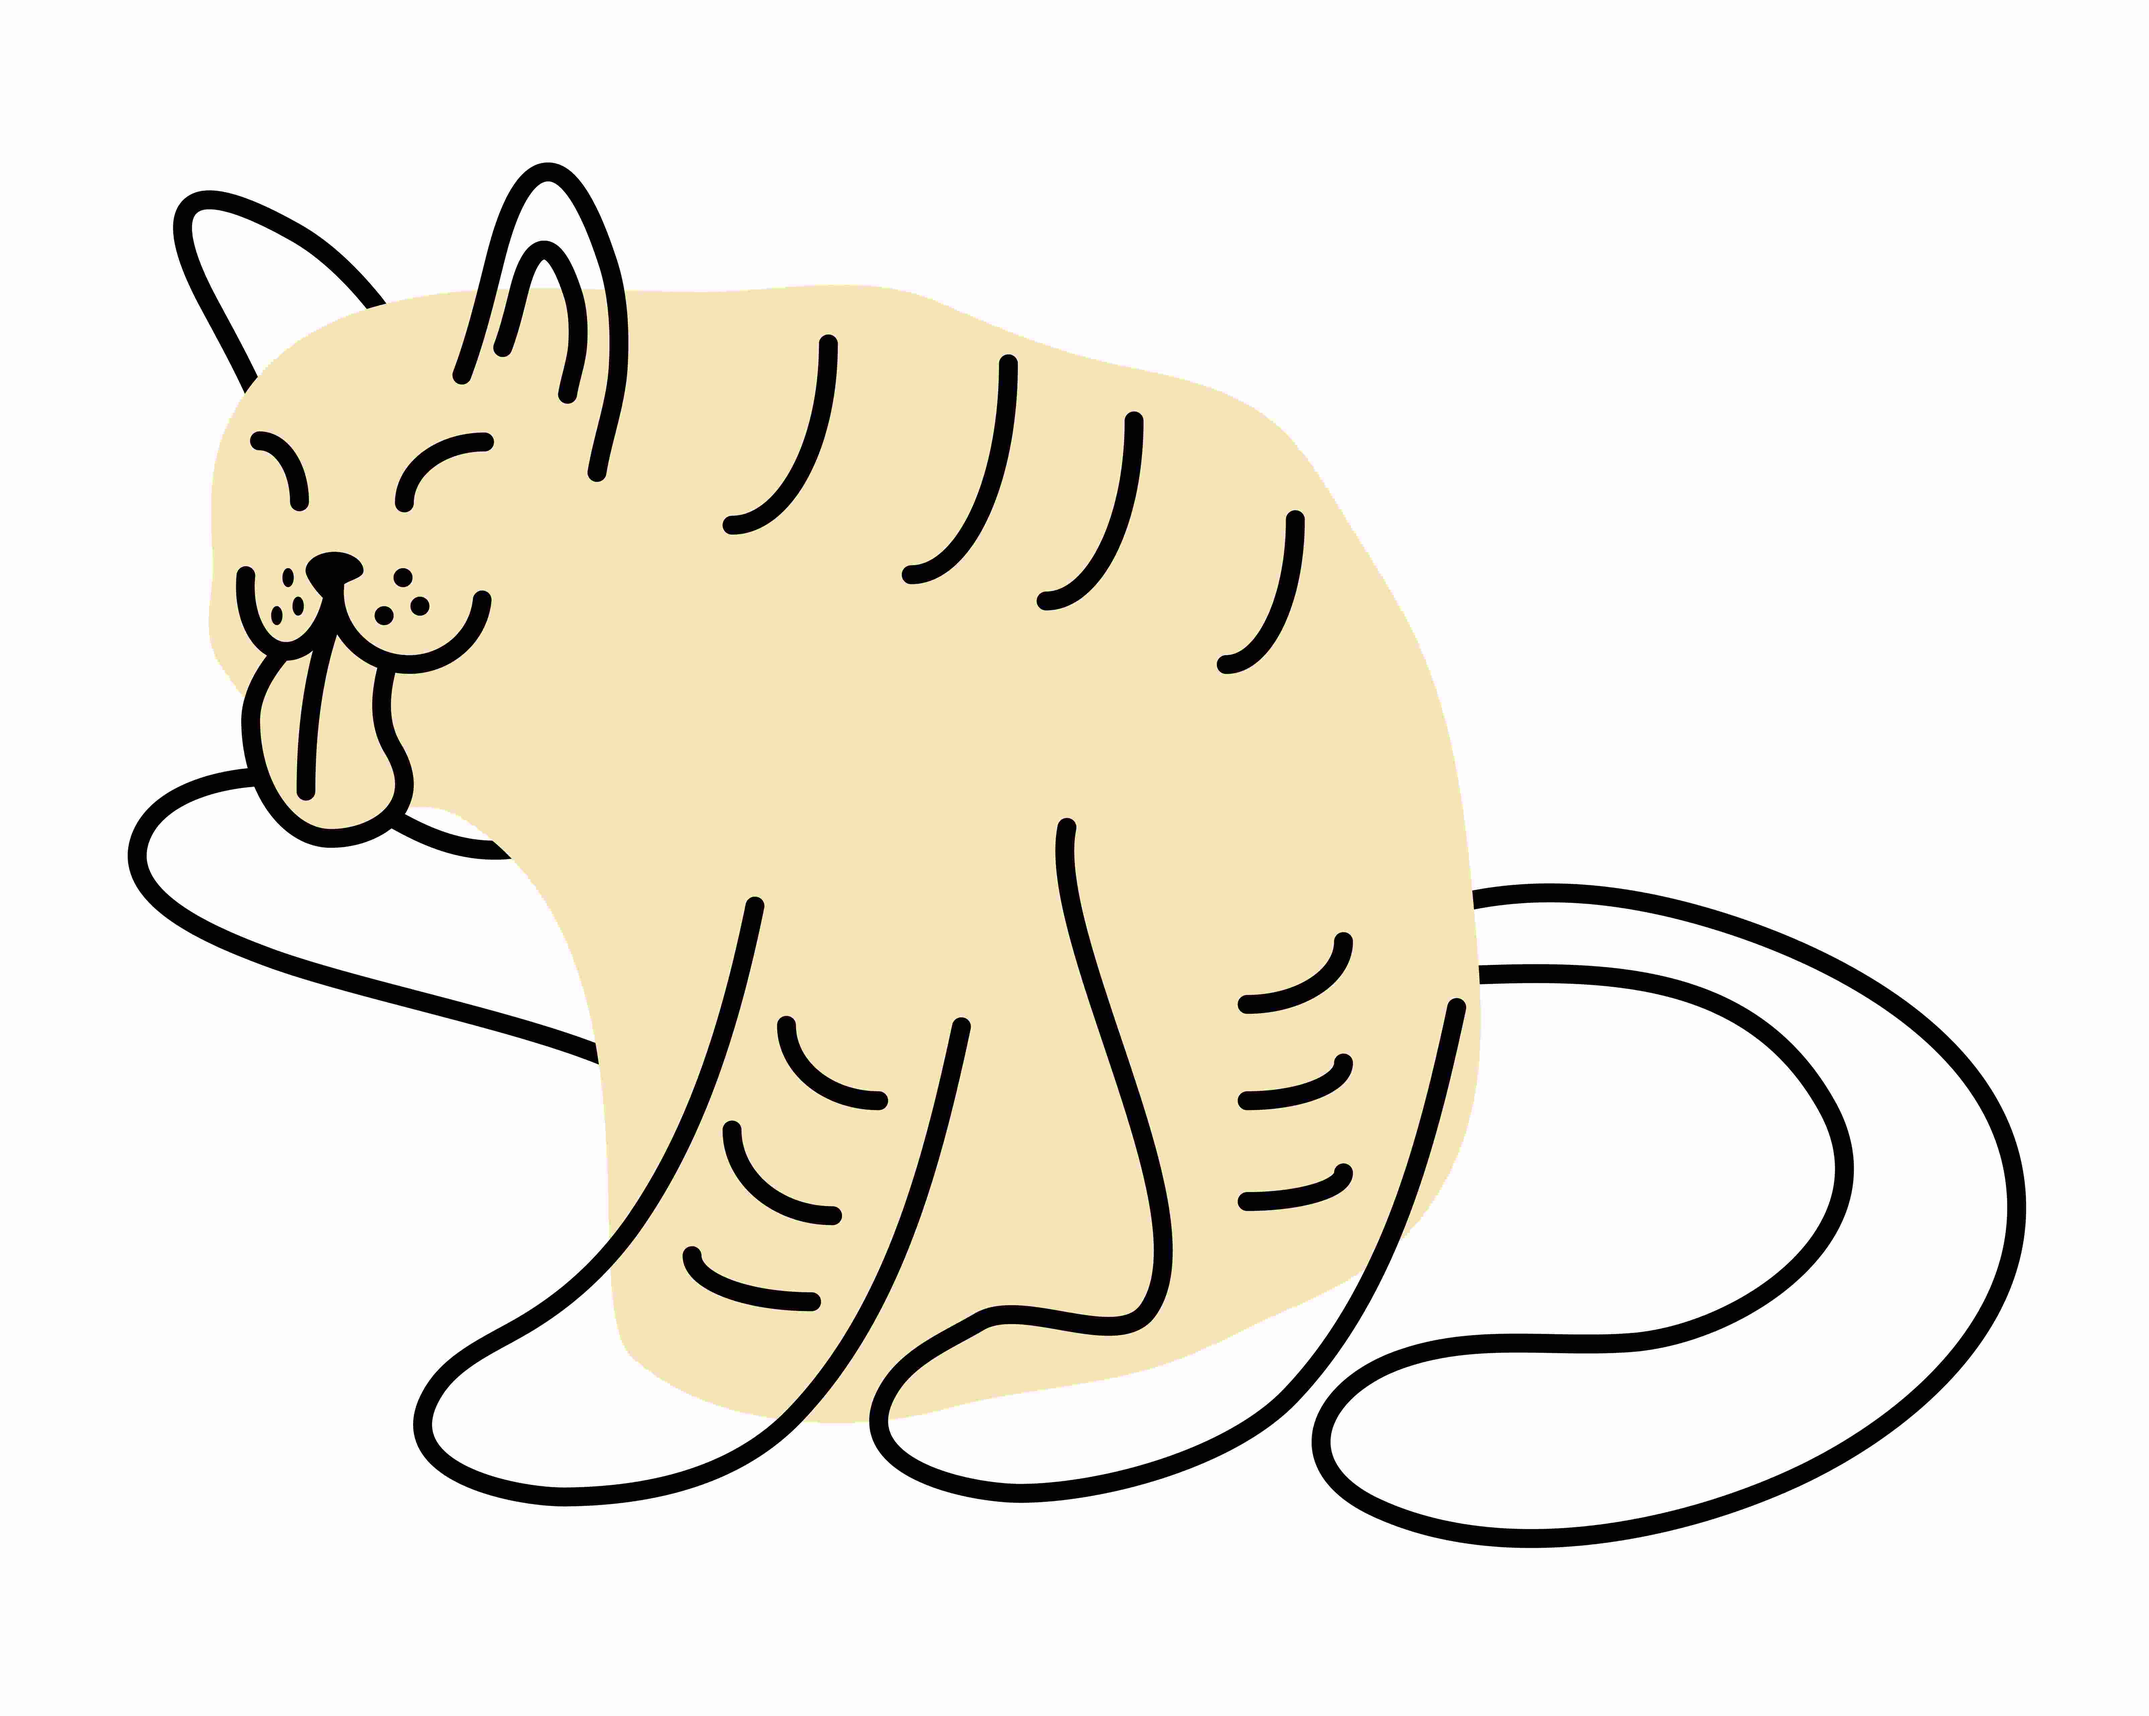
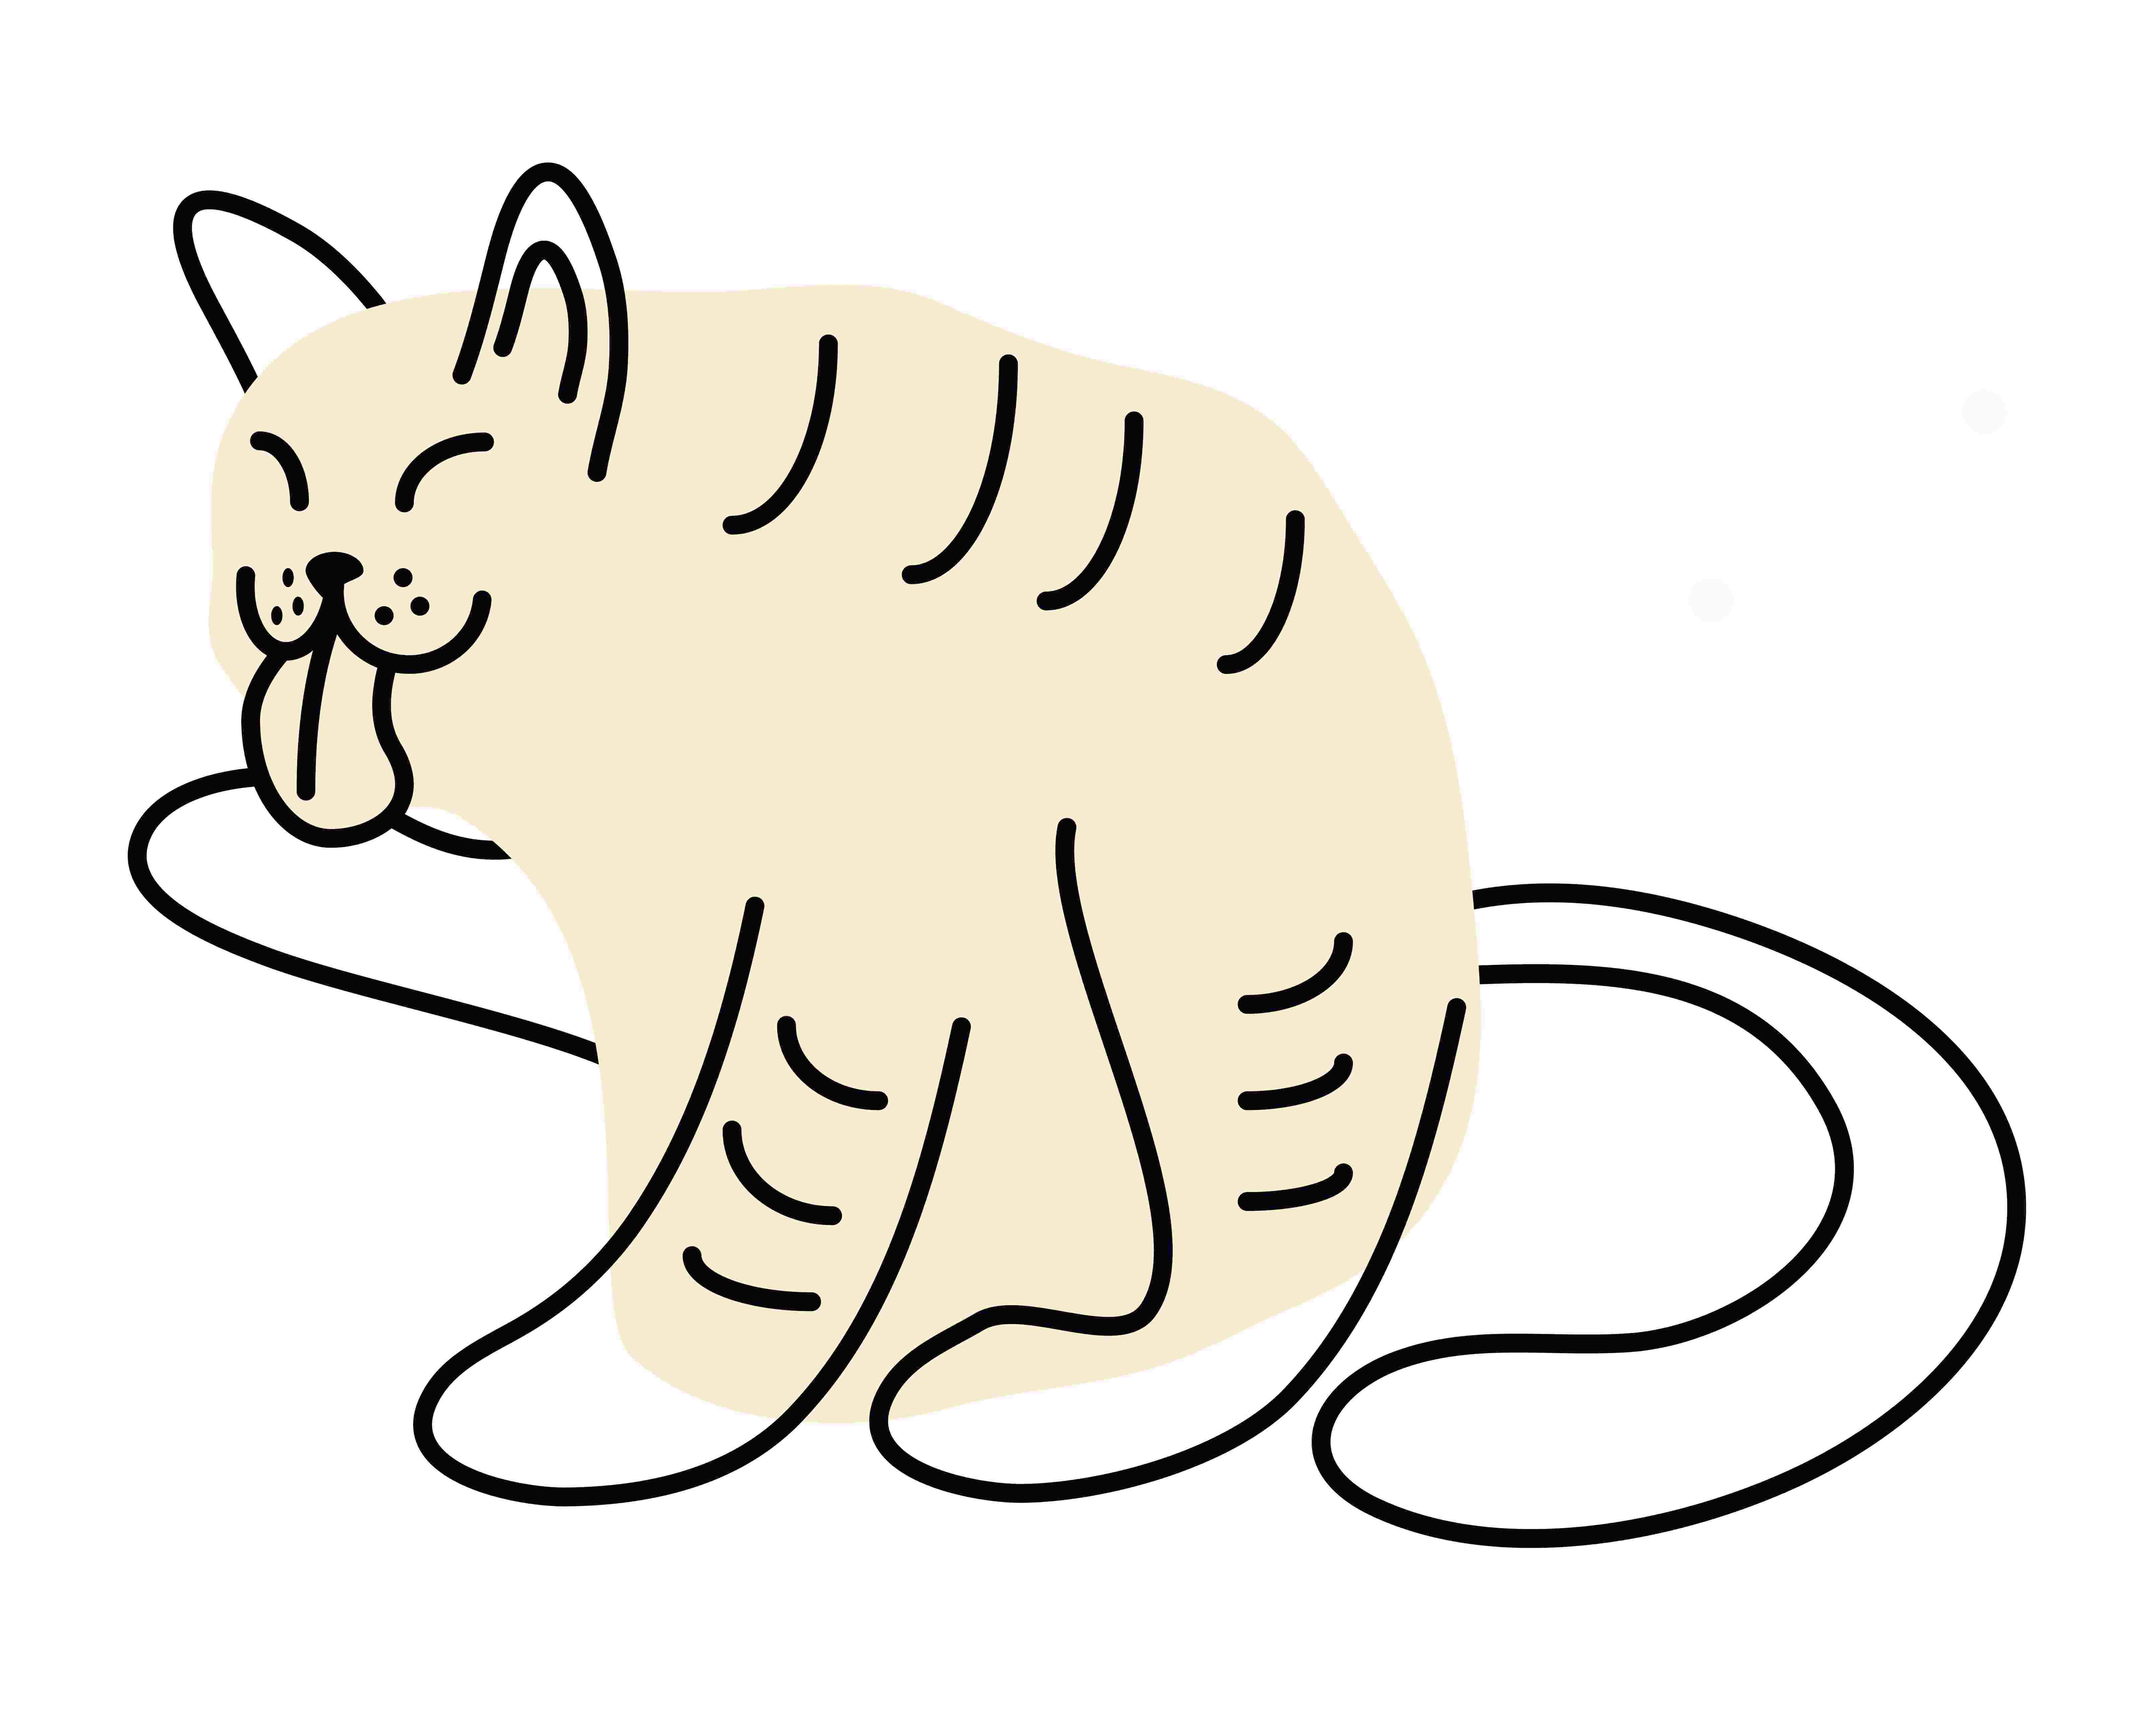
adjusted sizes and colours of cat service images

Changed region(s): [[0.0935, 0.1562, 0.686, 0.8434]]

diff --git a/assets/css/main.css b/assets/css/main.css
@@ -84,84 +84,6 @@ h2, h3 {
     font-family: 'Bubblegum Sans', Arial, Helvetica, sans-serif;
 }
 
-/*---------------------------------------------------------------------------*/
-/*------------------------------Header---------------------------------------*/
-/*---------------------------------------------------------------------------*/
-
-header {
-    background: var(--background);
-    margin: auto;
-  }
-  
-  .title {
-    height: 56px;
-  
-    h1 {
-        position: relative;
-        right: 2px;
-        line-height: 20px;
-        font-size: 1.8rem;
-        color: var(--primary-colour);
-        font-weight: 500;
-        text-transform: uppercase;
-        place-content: center;
-    }
-  
-    .logo {
-        height: 60px;
-        width: 60px;
-        padding-top: 5px;
-        margin-right: 30px;
-    }
-    
-  }
-  
-  nav {
-    width: 100%;
-    height: 56px;
-  }
-  
-  nav .nav-list {
-    list-style: none;
-  }
-  
-  nav .nav-list li {
-    display: inline;
-    line-height: 56px;
-  
-    a {
-        text-decoration: none;
-        color: #525252;
-        font-size: 1.6rem;
-        font-weight: 500;
-    
-        &:hover {
-            color: var(--primary-colour);
-            transition: color 0.25s ease-in-out;
-        }
-    }
-  }
-  
-  .nav-list li + li {
-    margin-left: 16px;
-  }
-  
-  .search-bar {
-    align-items: center;
-  }
-  input[type=text] {
-    width: 100%;
-    height: 38px;
-    padding: 0 15px 0 32px;
-    border-radius: 50px;
-    transition: all 0.25s ease-in-out;
-    background: #f6f6f6 url(../img/image4.png) no-repeat 10px 11px;
-    background-size: 16px;
-  
-    &:focus {
-        border: 1px solid var(--primary-colour);
-    }
-  }
 
 /* - - - - - - - - - - - - - - - - - - - - - - - - - - - - - - - - - - - - - */
 /* - - - - - - - - Ashedzi's hero-banner and about section - - - - - - - - - */
@@ -274,7 +196,6 @@ section:nth-of-type(2 ) {
     background-color: #fff;
     border-radius: 8px;
     padding: 20px;
-    box-shadow: 0 2px 6px rgba(0, 0, 0, 0.1);
     text-align: center;
   }
   
@@ -297,7 +218,14 @@ section:nth-of-type(2 ) {
     line-height: 1.6;
     color: #666;
 }
-  
+
+.pic-1, .pic-2, .pic-3 {
+    margin-left: 10px;
+}
+
+.pic-4 {
+    margin-left: 20px;
+}
 /* - - - - - - - - - - - - - - - - - - - - - - - - - - - - - - - - - - - - - */
 /* - - - - - - - - - - Contact and Google Maps - - - - - - - - - - - - - - - */
 /* - - - - - - - - - - - - - - - - - - - - - - - - - - - - - - - - - - - - - */
@@ -458,19 +386,6 @@ form input[type=submit] {
     color: #000;
     margin: 0;
     text-align: left;
-}
-
-/* - - - -  - - - - - - - */
-/*      Social Links      */
-/* - - - -- - - - - - - - */
-
-.social-links {
-    height: 50px;
-    font-size: 4rem;
-}
-
-i {
-    color: var(--primary-color);
 }
 
 /* - - - -  - - - - - - - */

diff --git a/index.html b/index.html
@@ -104,7 +104,7 @@
             When you’re away, your cat can enjoy our homelike boarding facility, 
             staffed round the clock to provide personalized attention. Each feline 
             guest gets a snug sleeping area, fun activities, and lots of gentle care, 
-            ensuring they feel comfortable and secure until you return.
+            ensuring they feel comfortable and secure.
           </p>
         </section>
         <section class="Grooming center">
@@ -116,7 +116,7 @@
             Your cat’s well-being is at the heart of our grooming service. We 
             take the time to understand each kitty’s preferences, offering gentle 
             brushing, nail trimming, and pampering treatments. We always handle 
-            your feline companion with kindness and patience—snuggles included.
+            your feline companion with kindness—snuggles included.
           </p>
         </section>
         <section class="Training center">
@@ -128,7 +128,7 @@
             Our cat training program is a favorite among pet parents who value 
             both playfulness and discipline. We utilize gentle, positive reinforcement
             techniques to guide your feline friend in learning essential tricks and 
-            manners, ensuring a well-behaved, confident companion.
+            manners, ensuring a well-behaved companion.
           </p>
         </section>
       </div>
@@ -154,6 +154,7 @@
         <div class="contact-right flex gap-40">
           <h3>Our Location</h3>
           <p>130 Henlow Bay, Winnipeg, MB</p>
+          <p>(204)261-6369</p>
           <div class="google-map">
             <iframe 
               src="https://www.google.com/maps/embed?pb=!1m18!1m12!1m3!1d2574.4900812827673!2d-97.1965126768753!3d49.81445353271439!2m3!1f0!2f0!3f0!3m2!1i1024!2i768!4f13.1!3m3!1m2!1s0x52ea756d679c1f21%3A0xd09825e5197c16da!2sManitoba%20Institute%20of%20Trades%20and%20Technology!5e0!3m2!1sen!2sca!4v1738168434780!5m2!1sen!2sca" 
